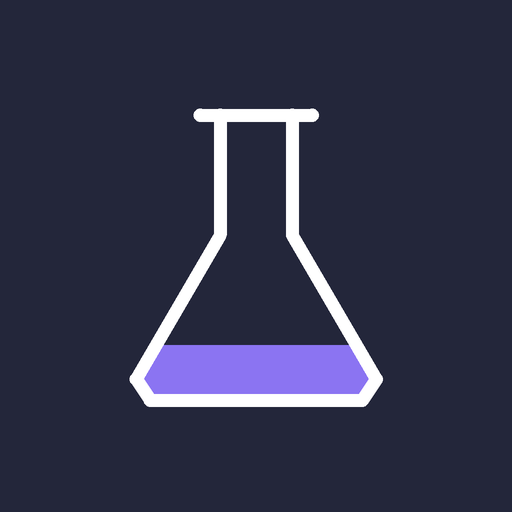
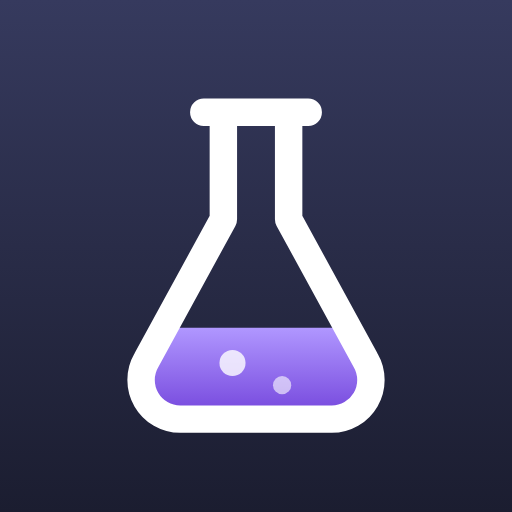
v48

diff --git a/index.html b/index.html
@@ -3008,6 +3008,31 @@ html.study-open,html.study-open body{overflow:hidden!important;overscroll-behavi
 .sd-err b{font-size:.9rem}.sd-err p{margin:0;font-size:.88rem;line-height:1.45;color:var(--ink-2)}.sd-err small{font-size:.75rem;color:var(--ink-3)}
 .sd-err .btn{align-self:flex-start;margin-top:6px;background:var(--surface)!important;color:var(--violet-ink)!important;border:0!important;border-radius:999px!important}
 .side .sync-diag,.sidebar .sync-diag{display:none!important}
+/* ===================== v48 · hub pages ===================== */
+.hubwrap{display:flex;flex-direction:column;gap:18px}
+.hubrec{display:flex;flex-direction:column;align-items:flex-start;gap:4px;width:100%;text-align:left;border:0;cursor:pointer;padding:20px 22px;border-radius:var(--r-hero,20px);color:#fff;background:linear-gradient(135deg,color-mix(in srgb,var(--rc) 88%,#fff),var(--rc));box-shadow:0 10px 26px color-mix(in srgb,var(--rc) 30%,transparent);font:inherit;transition:transform .12s}
+.hubrec:hover{transform:translateY(-1px)}
+.hr-k{font-size:.7rem;font-weight:700;letter-spacing:.07em;opacity:.85}.hubrec b{font-size:1.5rem;font-weight:800;letter-spacing:-.01em;line-height:1.15}.hr-s{font-size:.92rem;opacity:.92;max-width:52ch;line-height:1.4}
+.hr-go{margin-top:10px;display:inline-flex;align-items:center;gap:4px;background:rgba(255,255,255,.22);padding:7px 14px;border-radius:999px;font-weight:700;font-size:.9rem}.hr-go svg{width:16px;height:16px}
+.hubsec-h{margin:0 2px 10px!important;font-size:.78rem!important;font-weight:700!important;letter-spacing:.06em;text-transform:uppercase;color:var(--ink-3)!important}
+.hubgrid{display:grid!important;grid-template-columns:repeat(auto-fill,minmax(210px,1fr));gap:12px!important;background:transparent!important;box-shadow:none!important;border-radius:0!important;overflow:visible!important}
+.hubgrid-2{grid-template-columns:repeat(auto-fill,minmax(260px,1fr))}
+@media (max-width:600px){.hubgrid{grid-template-columns:repeat(2,minmax(0,1fr))}.hubgrid-2{grid-template-columns:1fr}}
+.a3row.hubtile{display:flex!important;flex-direction:column!important;align-items:flex-start!important;gap:10px!important;padding:16px!important;min-height:140px;background:var(--surface)!important;border:0!important;border-radius:var(--r-cell)!important;box-shadow:var(--shadow)!important;text-align:left;transition:transform .12s,box-shadow .12s}
+.a3row.hubtile+.a3row.hubtile{border-top:0!important}
+@media (hover:hover){.a3row.hubtile:not([disabled]):hover{transform:translateY(-2px);box-shadow:0 2px 4px rgba(0,0,0,.05),0 10px 24px rgba(0,0,0,.09)!important}}
+.a3row.hubtile .a3sym{width:42px!important;height:42px!important;border-radius:12px!important}.a3row.hubtile .a3sym svg{width:21px;height:21px}
+.a3row.hubtile .a3rt{display:flex;flex-direction:column;gap:3px;width:100%}.a3row.hubtile .a3rt b{font-size:1rem}.a3row.hubtile .a3rt small{font-size:.8rem;line-height:1.35;color:var(--ink-3)}
+.hub-meta{margin-top:auto;padding-top:8px;font-size:.72rem;font-weight:700;color:var(--violet-ink);letter-spacing:.02em}
+.a3row.hubtile[disabled] .hub-meta{color:var(--ink-3)}
+@media (max-width:600px){.a3row.hubtile{min-height:128px;padding:14px!important}.a3row.hubtile .a3rt small{display:-webkit-box;-webkit-line-clamp:3;-webkit-box-orient:vertical;overflow:hidden}}
+/* Explain it */
+.pg-explain .stage>.qcard{background:linear-gradient(135deg,var(--violet-soft),color-mix(in srgb,var(--violet-soft) 60%,var(--surface)))!important;box-shadow:none!important;padding:18px 20px!important}
+.pg-explain .stage>.qcard .kicker{color:var(--violet-ink)!important;font-weight:800;letter-spacing:.06em}
+.pg-explain .stage>.qcard b,.pg-explain .stage>.qcard .qtext{font-size:1.2rem!important;line-height:1.35}
+.pg-explain textarea.input{min-height:220px!important;box-shadow:var(--shadow)!important}
+.pg-explain .stage>.row{justify-content:space-between;align-items:center}
+.pg-explain .field select.input{max-width:420px}
 </style></head><body><div id="app"></div><script>
 "use strict";
 /* ---------- utilities ---------- */
@@ -3095,7 +3120,7 @@ Object.assign(ICONS, {
 });
 
 /* ---------- state ---------- */
-const APP_VERSION = "47.3";
+const APP_VERSION = "48.0";
 const S = {
   decks: {},   // id -> deck
   srs: {},     // deckId -> { factKey: state }
@@ -7049,7 +7074,7 @@ function groupDecksByLabel(decks) {
 }
 
 /* ---------- lab-flavored interface pieces ---------- */
-const BRAND = `<svg class="brandsvg" viewBox="0 0 40 40" aria-hidden="true"><rect x="1" y="1" width="38" height="38" rx="10" fill="#23263A"/><path d="M16 9h8M17.5 9v8.2L11.6 28a3 3 0 0 0 2.6 4.5h11.6a3 3 0 0 0 2.6-4.5L22.5 17.2V9" fill="none" stroke="#fff" stroke-width="2" stroke-linejoin="round" stroke-linecap="round"/><path d="M14 25.5h12l2.2 3.6a1.6 1.6 0 0 1-1.4 2.4H13.2a1.6 1.6 0 0 1-1.4-2.4z" fill="#8B74F2"/></svg>`;
+const BRAND = `<svg class="brandsvg" viewBox="0 0 40 40" aria-hidden="true"><defs><linearGradient id="lbBg" x1="0" y1="0" x2="0" y2="1"><stop offset="0" stop-color="#363A5E"/><stop offset="1" stop-color="#1B1D30"/></linearGradient><linearGradient id="lbLq" x1="0" y1="0" x2="0" y2="1"><stop offset="0" stop-color="#B097FF"/><stop offset="1" stop-color="#7B4FE0"/></linearGradient></defs><rect x="1" y="1" width="38" height="38" rx="10" fill="url(#lbBg)"/><rect x="1.5" y="1.5" width="37" height="37" rx="9.5" fill="none" stroke="#fff" stroke-opacity=".10"/><path d="M14 25.5h12l2.2 3.6a1.6 1.6 0 0 1-1.4 2.4H13.2a1.6 1.6 0 0 1-1.4-2.4z" fill="url(#lbLq)"/><circle cx="18.2" cy="28.2" r="1" fill="#fff" fill-opacity=".8"/><circle cx="22" cy="29.9" r=".7" fill="#fff" fill-opacity=".6"/><path d="M16 9h8M17.5 9v8.2L11.6 28a3 3 0 0 0 2.6 4.5h11.6a3 3 0 0 0 2.6-4.5L22.5 17.2V9" fill="none" stroke="#fff" stroke-width="2.1" stroke-linejoin="round" stroke-linecap="round"/></svg>`;
 const SPIN = `<svg class="cfuge" viewBox="0 0 24 24" aria-hidden="true"><circle cx="12" cy="12" r="10" fill="none" stroke="currentColor" stroke-width="1.6" opacity=".35"/><g><rect x="10.6" y="2.6" width="2.8" height="6" rx="1.4" fill="#A48BDB"/><rect x="10.6" y="15.4" width="2.8" height="6" rx="1.4" fill="#F2709B"/><rect x="2.6" y="10.6" width="6" height="2.8" rx="1.4" fill="#7CC6E4"/><rect x="15.4" y="10.6" width="6" height="2.8" rx="1.4" fill="#E3B53E"/></g><circle cx="12" cy="12" r="2" fill="currentColor"/></svg>`;
 function rack(done, left) {
   const total = Math.max(1, done + left), n = 8, full = Math.round(done / total * n);
@@ -14583,6 +14608,108 @@ setInterval(() => { const sb = document.querySelector(".side #syncDiag, .sidebar
     return out; }; }
 /* no need to re-download when you just synced and nothing has changed since */
 { const now2 = Sync.now; Sync.now = async function (...a) { if (!this.forceNow && this.status === "ok" && this.lastOk && Date.now() - this.lastOk < 45000) return; return now2.apply(this, a); }; }
+/* ===================== v48 · sync, rebuilt for pictures ===================== */
+/* Your study data and your pictures now live in two separate private gists:
+   - the data gist stays small, so each sync is one quick download and (only if something changed) one upload;
+   - pictures upload once each, tracked in your data (imgUp), and download individually when a device is missing one;
+   - pictures still sitting in the old data gist are moved over a few at a time, then removed from it.
+   A built-in speed limit keeps LabDeck well under GitHub’s limits. */
+const IMG_FILE = "labdeck-pictures.json";
+Sync.imgGist = LS.get("gh_imgs") || ""; Sync.login = LS.get("gh_login") || "";
+{ const api1 = Sync.api; const calls = []; Sync.api = async function (path, opts = {}, ...a) {
+    const now = Date.now(); while (calls.length && now - calls[0] > 60000) calls.shift();
+    const heavy = opts.method && opts.method !== "GET";
+    if (calls.length >= 30 || (heavy && calls.filter(c => c.w).length >= 12)) { const e = new Error("local limit"); e.status = 429; e.rate = true; e.msg = "LabDeck paused itself to stay under GitHub’s limits"; this.lastErr = { status: 429, msg: e.msg, rate: true, t: now }; throw e; }
+    calls.push({ t: now, w: heavy }); try { return await api1.call(this, path, opts, ...a); } catch (e) { if (e) e.path = path; throw e; } }; }
+Sync.findOrMakeImgGist = async function () {
+  if (this.imgGist) return this.imgGist; let found = null;
+  for (let page = 1; page <= 5 && !found; page++) { const list = await this.api(`/gists?per_page=100&page=${page}`); found = (list || []).find(g => g.files && g.files[IMG_FILE]); if (!list || list.length < 100) break; }
+  if (found) this.imgGist = found.id; else { const g = await this.api("/gists", { method: "POST", body: JSON.stringify({ description: "LabDeck pictures (private)", public: false, files: { [IMG_FILE]: { content: JSON.stringify({ v: 1, note: "Pictures used by LabDeck cards" }) } } }) }); this.imgGist = g.id; }
+  LS.set("gh_imgs", this.imgGist); return this.imgGist;
+};
+Sync.syncPictures = async function (dataGist) {
+  const refs = referencedImages(); const up = S.meta.imgUp = S.meta.imgUp || {}; let budget = 4, changed = false;
+  const legacy = Object.keys((dataGist && dataGist.files) || {}).filter(n => /^img-.+\.txt$/.test(n));
+  const needUp = [...refs].filter(id => S.images[id] && !up[id]);
+  const legacyIds = legacy.map(n => n.slice(4, -4)).filter(id => !up[id] && refs.has(id));
+  if (needUp.length || legacyIds.length) await this.findOrMakeImgGist();
+  /* upload: local pictures first, then any that only exist in the old data gist; two per request, a few per sync */
+  const queue = [...new Set([...needUp, ...legacyIds])];
+  for (let k = 0; k < queue.length && budget > 0; k += 2) {
+    const files = {}; for (const id of queue.slice(k, k + 2)) { let c = S.images[id]; if (!c && dataGist.files["img-" + id + ".txt"]) { c = await this.readFile(dataGist.files["img-" + id + ".txt"]); if (c) { S.images[id] = c; IDB.put("img-" + id, c); } } if (c) files["img-" + id + ".txt"] = { content: c }; }
+    if (!Object.keys(files).length) continue; budget--;
+    await this.api("/gists/" + this.imgGist, { method: "PATCH", body: JSON.stringify({ files }) });
+    Object.keys(files).forEach(n => { up[n.slice(4, -4)] = Date.now(); }); changed = true;
+  }
+  /* clean the old data gist once its pictures are safely in the picture gist */
+  const movable = legacy.filter(n => up[n.slice(4, -4)] || !refs.has(n.slice(4, -4))).slice(0, 10);
+  if (movable.length && budget > 0) { const files = {}; movable.forEach(n => files[n] = null); await this.api("/gists/" + this.gist, { method: "PATCH", body: JSON.stringify({ files }) }); }
+  /* download pictures this device is missing */
+  const missing = [...refs].filter(id => !S.images[id] && up[id]).slice(0, 6);
+  if (missing.length && !this.imgGist) { for (let page = 1; page <= 5 && !this.imgGist; page++) { const list = await this.api(`/gists?per_page=100&page=${page}`); const f = (list || []).find(g => g.files && g.files[IMG_FILE]); if (f) { this.imgGist = f.id; LS.set("gh_imgs", f.id); } if (!list || list.length < 100) break; } }
+  if (missing.length && this.imgGist) { let listing = null;
+    for (const id of missing) { let c = null;
+      if (this.login) { try { const r = await fetch(`https://gist.githubusercontent.com/${this.login}/${this.imgGist}/raw/img-${id}.txt`, { cache: "no-store" }); if (r.ok) c = await r.text(); } catch { } }
+      if (!c) { if (!listing) listing = await this.api("/gists/" + this.imgGist); c = await this.readFile((listing.files || {})["img-" + id + ".txt"]); }
+      if (c) { S.images[id] = c; IDB.put("img-" + id, c); changed = true; } } }
+  if (changed) saveMeta();
+  return changed;
+};
+Sync.now = async function () {
+  if (!this.token) return; const forced = this.forceNow; this.forceNow = false;
+  if (!forced) { if (this.status === "error" && this.retryAt && Date.now() < this.retryAt) return; if (this.status === "ok" && this.lastOk && Date.now() - this.lastOk < 45000) return; }
+  if (this.busy) { this.again = true; return; } if (!navigator.onLine) { this.set("offline"); return; }
+  this.busy = true; clearTimeout(this.timer); this.set("syncing");
+  try {
+    if (!this.gist) await this.relink();
+    const g = await this.api("/gists/" + this.gist); if (g.owner && g.owner.login) { this.login = g.owner.login; LS.set("gh_login", this.login); }
+    const txt = await this.readFile((g.files || {})[GIST_FILE]); let changed = false;
+    if (txt) { try { changed = mergeRemote(JSON.parse(txt)); } catch { } }
+    const pics = await this.syncPictures(g); changed = changed || pics;
+    const out = JSON.stringify(snapshot());
+    if (!txt || (out !== txt && !sameData(out, txt))) await this.api("/gists/" + this.gist, { method: "PATCH", body: JSON.stringify({ files: { [GIST_FILE]: { content: out } } }) });
+    this.lastOk = Date.now(); LS.set("gh_last", String(this.lastOk)); this.set("ok");
+    if (changed && !ST && !$(".scrim")) render();
+    /* more pictures still waiting: carry on in a minute, gently */
+    const left = [...referencedImages()].filter(id => S.images[id] && !(S.meta.imgUp || {})[id]).length + Object.keys(g.files || {}).filter(n => /^img-/.test(n)).length;
+    if (left) { clearTimeout(this.picT); this.picT = setTimeout(() => { this.forceNow = true; this.now(); }, 60000); }
+  } catch (e) {
+    if (e && (e.status === 429 || (e.status === 403 && (e.rate || /rate limit|abuse|secondary/i.test(e.msg || ""))))) this.set("error");
+    else if (e && e.status === 401) this.set("auth");
+    else if (e && e.status === 403) this.set("auth");
+    else if (e && e.status === 404) { if (String(e.path || "").includes(this.imgGist) && this.imgGist) { this.imgGist = ""; LS.del("gh_imgs"); } else { this.gist = ""; LS.del("gh_gist"); } this.set("error"); }
+    else this.set("error");
+  } finally { this.busy = false; if (this.again) { this.again = false; setTimeout(() => this.now(), 3000); } }
+};
+/* the picture tracking list merges by union, so every device knows what’s already uploaded */
+{ const mr = mergeRemote; mergeRemote = function (r, ...a) { const mine = { ...(S.meta.imgUp || {}) }; const out = mr.call(this, r, ...a); const R = ((r && r.meta) || {}).imgUp || {}; const U = {}; new Set([...Object.keys(mine), ...Object.keys(R)]).forEach(k => { U[k] = Math.min(mine[k] || Infinity, R[k] || Infinity); }); S.meta.imgUp = U; return out; }; }
+/* disconnecting forgets the picture gist on this device too */
+{ const dc = Sync.disconnect; Sync.disconnect = function (...a) { this.imgGist = ""; LS.del("gh_imgs"); return dc.apply(this, a); }; }
+/* ===================== v48 · hub pages ===================== */
+function hubTile(row, meta) { row.classList.add("hubtile"); const ch = row.querySelector(".a3chev"); ch && ch.remove(); if (meta != null && !row.querySelector(".hub-meta")) row.querySelector(".a3rt")?.insertAdjacentHTML("beforeend", `<span class="hub-meta">${meta}</span>`); return row; }
+function hubSection(title, rows) { const s = document.createElement("section"); s.className = "hubsec"; s.innerHTML = `<h3 class="hubsec-h">${esc(title)}</h3><div class="hubgrid"></div>`; const g = s.querySelector(".hubgrid"); rows.filter(Boolean).forEach(r => g.appendChild(r)); return s; }
+/* Practice: recommended first, then grouped tiles with live counts */
+{ const sm = startMixed; startMixed = function (skip) { const out = sm(skip); if (skip === true) return out; try {
+    const st = ST.stage, g = st.querySelector(".a3group"); if (!g || st.querySelector(".hubsec")) return out;
+    const R = k => st.querySelector(`[data-m="${k}"]`) || g.querySelector(`[data-m="${k}"]`);
+    const weakN = (() => { try { return weakFacts(null, 25).length; } catch { return 0; } })(), leechN = (() => { try { return leechFacts().length; } catch { return 0; } })(), fieldN = (() => { try { return profileFields().length; } catch { return 0; } })();
+    const decks = Object.values(S.decks).filter(d => !d.hidden).length;
+    const rec = leechN ? { k: "leech", t: `Clear ${plural(leechN, "leech", "leeches")}`, s: "These keep slipping. A focused round now saves you the most time later.", c: "#C8292F" } : weakN ? { k: "weak", t: `Shore up ${plural(weakN, "weak spot")}`, s: "Your shakiest cards across every deck, in one short session.", c: "#E5484D" } : { k: "mix", t: "Mixed practice", s: "Twenty questions across your decks. Switching topics makes it stick.", c: "#7B4FE0" };
+    const recEl = document.createElement("button"); recEl.className = "hubrec"; recEl.style.setProperty("--rc", rec.c); recEl.innerHTML = `<span class="hr-k">RECOMMENDED FOR YOU</span><b>${esc(rec.t)}</b><span class="hr-s">${esc(rec.s)}</span><span class="hr-go">Start ${icon("right")}</span>`; recEl.onclick = () => R(rec.k)?.click();
+    hubTile(R("weak"), weakN ? plural(weakN, "card") : "All solid"); hubTile(R("leech"), leechN ? plural(leechN, "leech", "leeches") : "None right now"); R("field") && hubTile(R("field"), fieldN ? plural(fieldN, "detail") : null);
+    hubTile(R("mix"), `${plural(decks, "deck")}`); hubTile(R("look"), `${LOOKALIKES.length} pairs`); hubTile(R("range"), "Labs and ranges"); hubTile(R("math"), "Leveled"); hubTile(R("flow"), `${Object.keys(FLOWS).length} charts`);
+    const wrap = document.createElement("div"); wrap.className = "hubwrap"; wrap.appendChild(recEl);
+    wrap.appendChild(hubSection("Fix what’s slipping", [R("weak"), R("leech"), R("field")]));
+    wrap.appendChild(hubSection("Drills", [R("mix"), R("look"), R("range"), R("math")]));
+    wrap.appendChild(hubSection("Identify", [R("flow")]));
+    g.replaceWith(wrap); st.querySelectorAll(".a3pick > h2, .a3pick > p.muted").forEach(h => h.classList.add("pg-dup"));
+  } catch (e) { console.warn("practice hub", e); } return out; }; }
+/* Exam practice: two clear choices with what to expect */
+{ const ep = examsPicker; examsPicker = function (...a) { const out = ep.apply(this, a); try { const g = ST.stage.querySelector(".a3group"); if (g && !g.classList.contains("hubgrid")) { g.classList.add("hubgrid", "hubgrid-2"); const b = g.querySelector('[data-x="board"]'), c = g.querySelector('[data-x="comp"]'); hubTile(b, "Pick decks · timed · 50 or 100 questions"); hubTile(c, "Whole program · scored like your final"); } } catch { } return out; }; }
+/* ID flowcharts: one tile per chart */
+{ const fp = startFlowPick; startFlowPick = function (...a) { const out = fp.apply(this, a); try { const gs = ST.stage.querySelectorAll(".a3group"); gs.forEach(g => { g.classList.add("hubgrid"); g.querySelectorAll(".a3row").forEach(r => hubTile(r, null)); }); } catch { } return out; }; }
+/* Explain it: a clear prompt card and a calm writing area */
+new MutationObserver(() => { const el = ST && ST.el; if (!el || !el.isConnected) return; const t = (el.querySelector(".study-top .t") || {}).textContent || ""; el.classList.toggle("pg-explain", t === "Explain it"); }).observe(document.documentElement, { childList: true, subtree: true });
 /* ---------- Select all that apply ---------- */
 const itemsOf = (c, f) => splitItems((c.values || {})[f]);
 const hasItem = (c, f, item) => itemsOf(c, f).some(x => norm(x) === norm(item));

diff --git a/sw.js b/sw.js
@@ -1,6 +1,6 @@
 // LabDeck service worker: always tries the network first so updates show up,
 // and falls back to the saved copy when you're offline. Your data is never stored here.
-const CACHE = "labdeck-shell-v47-3";
+const CACHE = "labdeck-shell-v48";
 self.addEventListener("install", e => { self.skipWaiting(); e.waitUntil(caches.open(CACHE).then(c => c.addAll(["./", "./index.html", "./manifest.webmanifest", "./icon-192.png"]).catch(() => {}))); });
 self.addEventListener("activate", e => { e.waitUntil(caches.keys().then(ks => Promise.all(ks.filter(k => k !== CACHE).map(k => caches.delete(k)))).then(() => self.clients.claim())); });
 self.addEventListener("fetch", e => {
